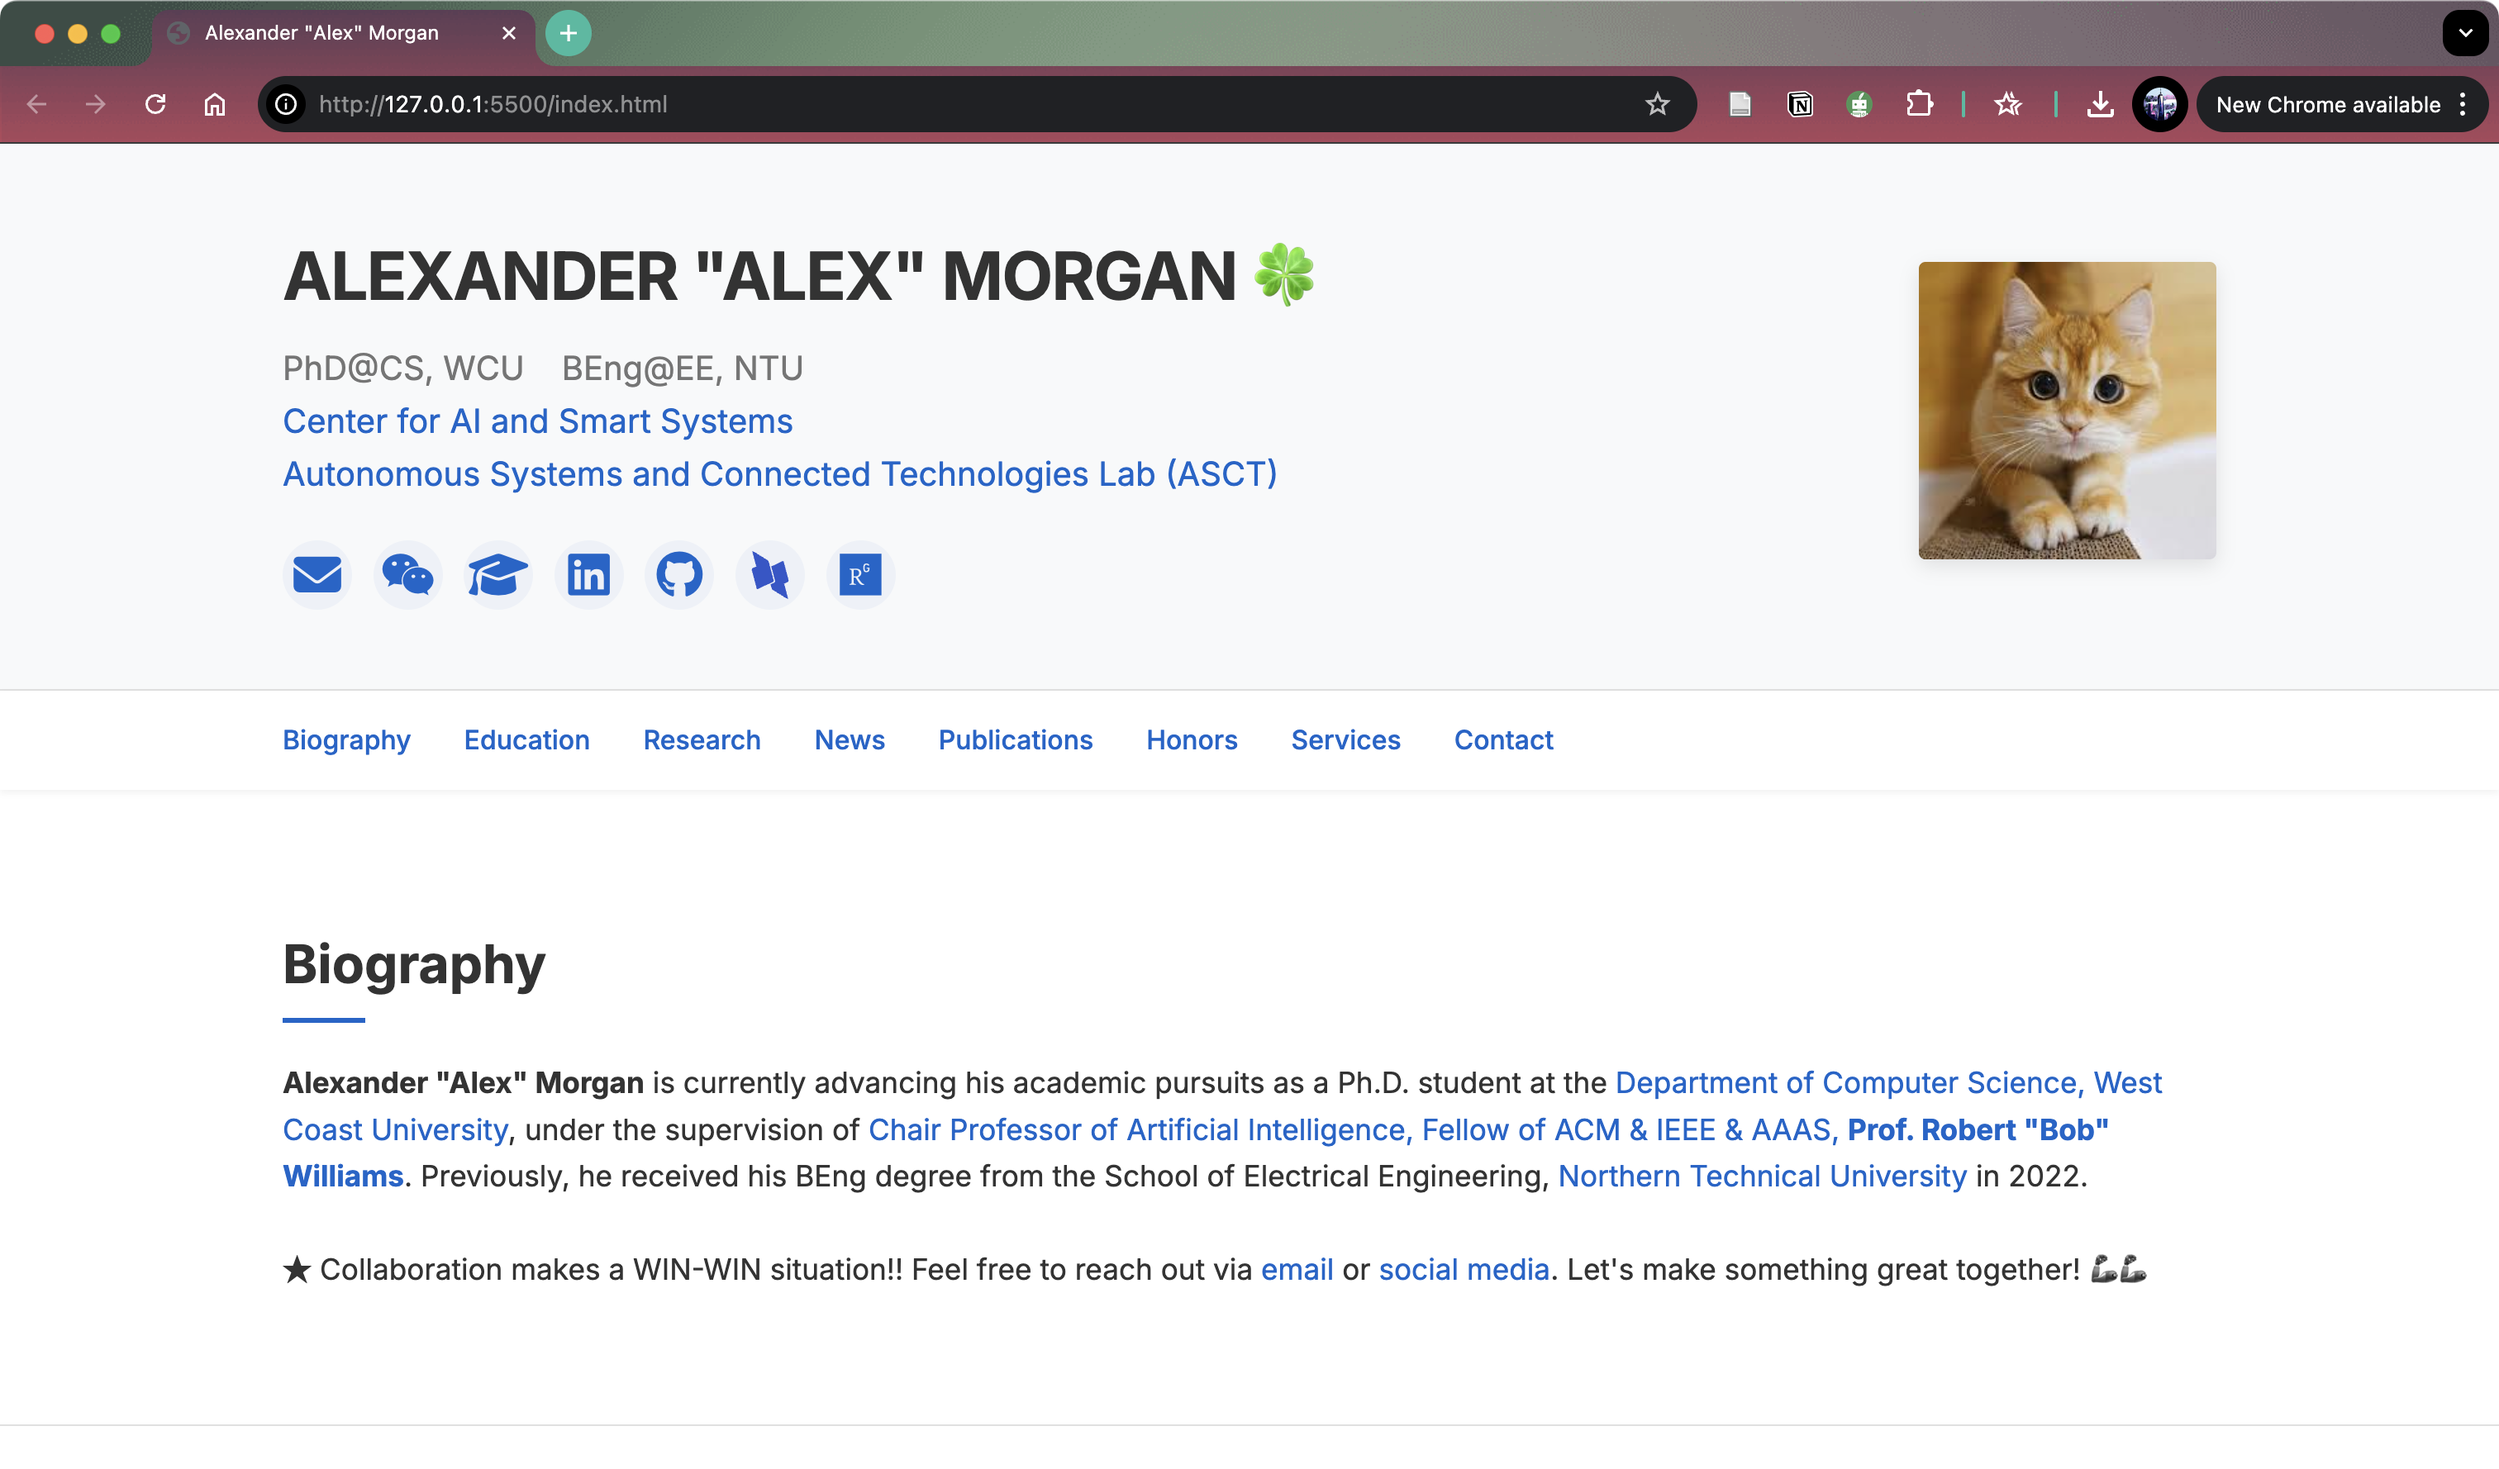
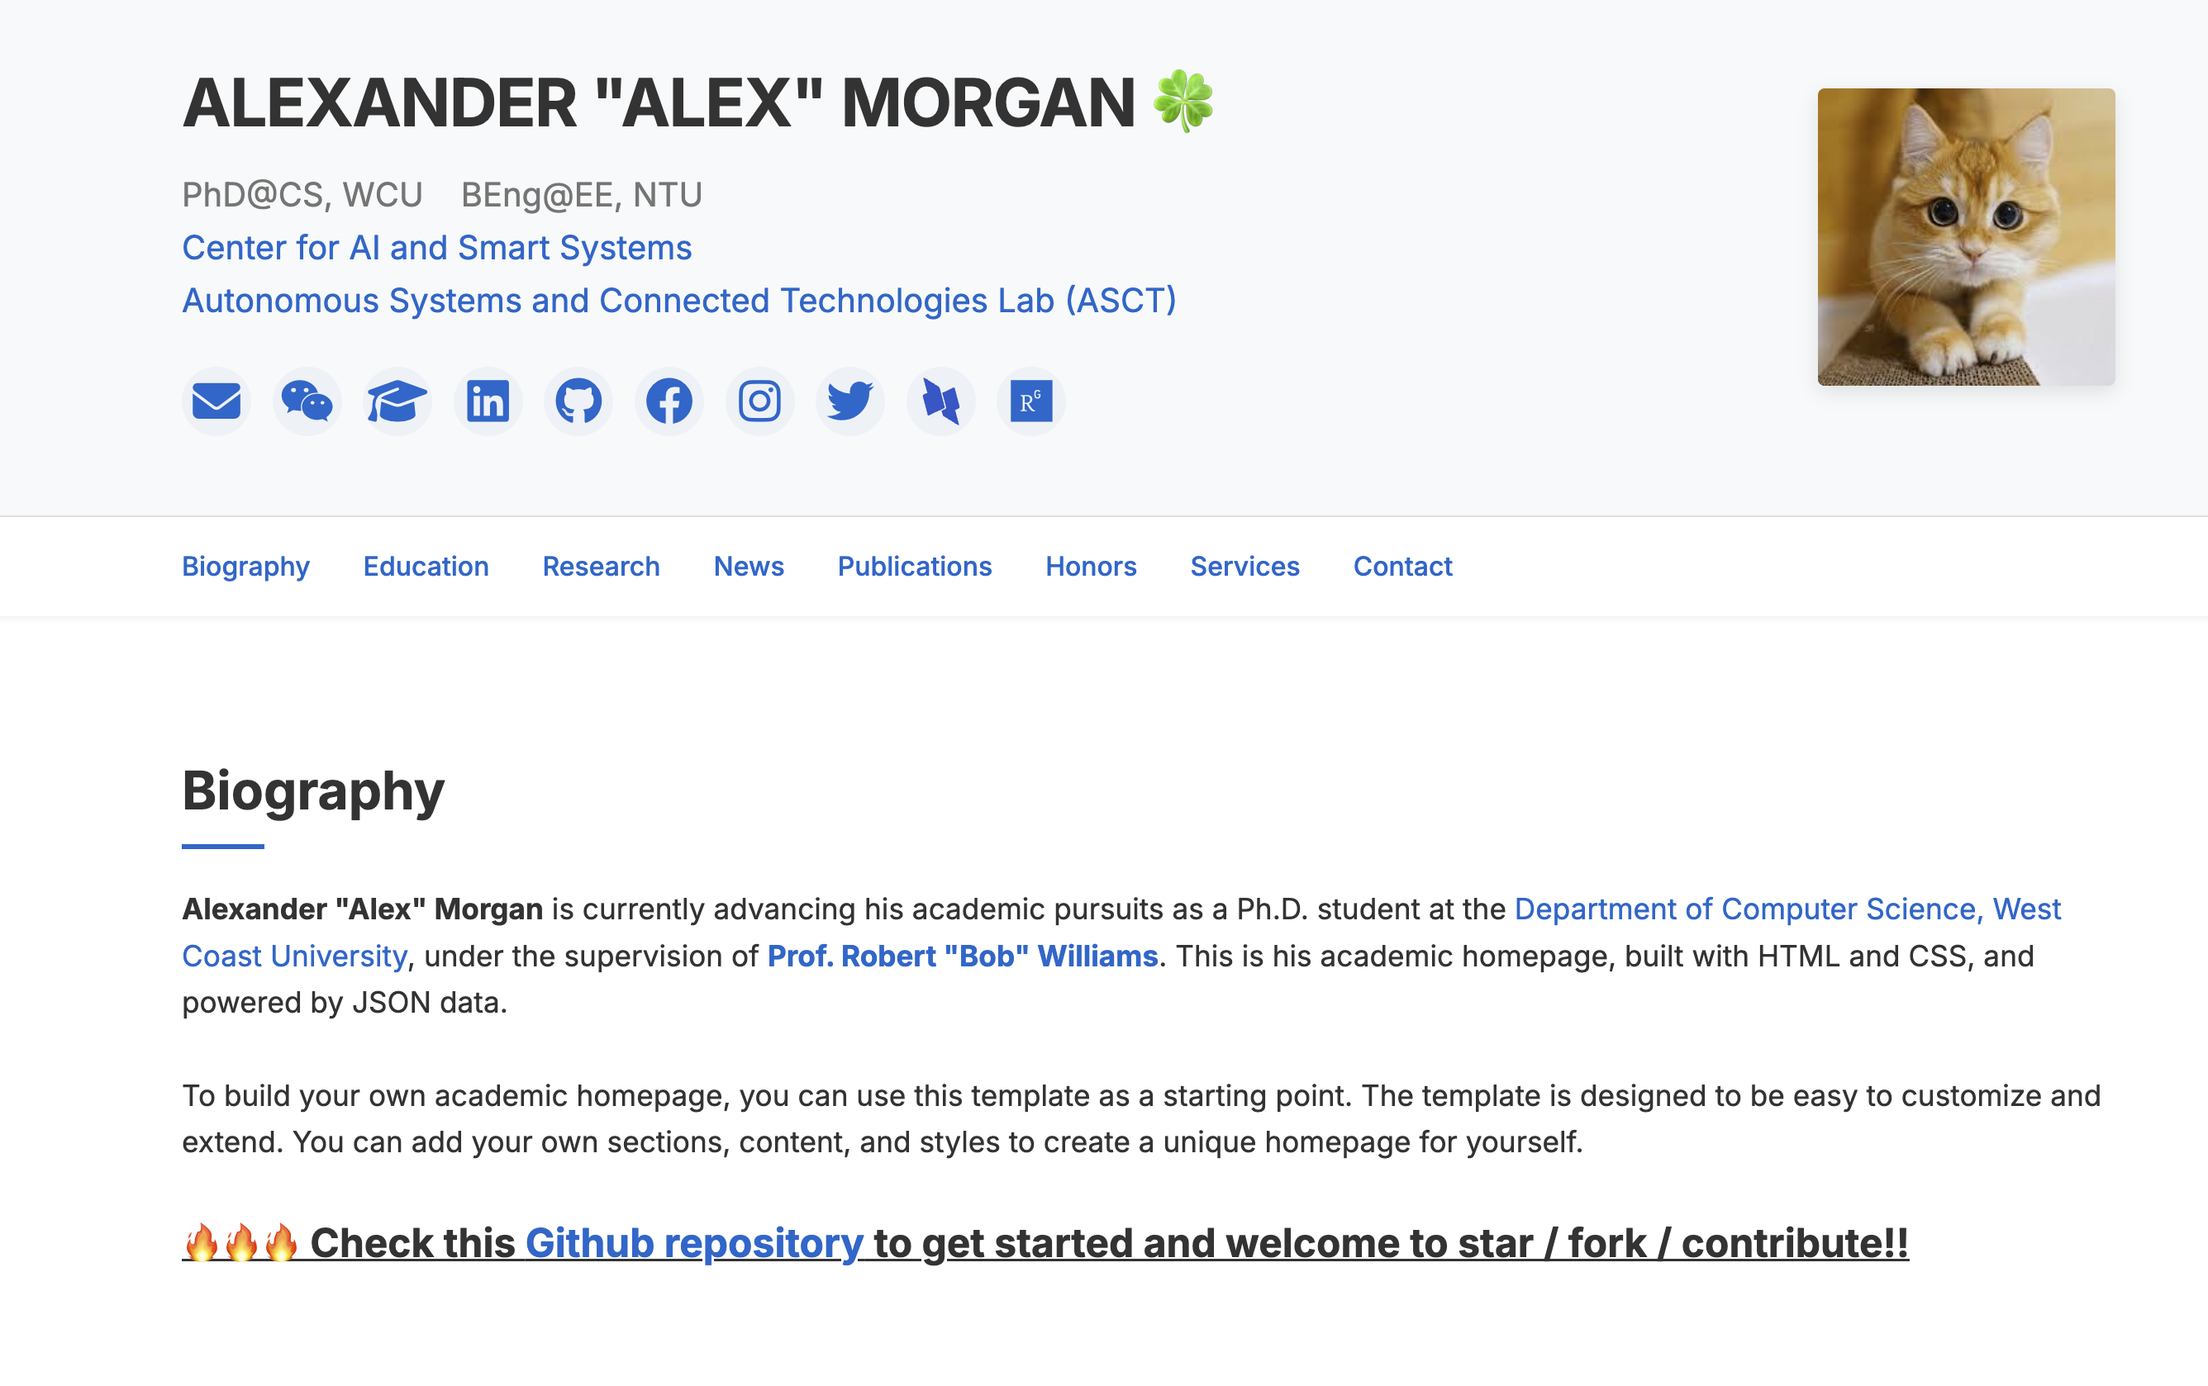
update

diff --git a/script.js b/script.js
@@ -2,6 +2,12 @@ document.addEventListener('DOMContentLoaded', function() {
     // Load profile information
     loadProfileInfo();
 
+    // Make all links open in a new tab
+    makeAllLinksOpenInNewTab();
+
+    // Set up MutationObserver to watch for dynamically added links
+    setupLinkObserver();
+
     // Publication filters - including "First Author" for publications where user is first author or has equal contribution
     const filterBtns = document.querySelectorAll('.filter-btn');
     const publications = document.querySelectorAll('.publication');
@@ -156,8 +162,11 @@ function loadProfileInfo() {
                     anchor.href = link.url;
                 }
                 
+                // Set target attribute - either from JSON or default to "_blank" for external links
                 if (link.target) {
                     anchor.target = link.target;
+                } else if (link.url && !link.url.startsWith('#')) {
+                    anchor.target = '_blank';
                 }
                 
                 // Fix SVG icon paths for subpages
@@ -246,6 +255,10 @@ function loadPublications() {
                         tagLink.href = tag.link;
                         tagLink.className = `tag ${tag.class}`;
                         tagLink.textContent = tag.text;
+                        // Add target="_blank" for links
+                        if (!tag.link.startsWith('#')) {
+                            tagLink.setAttribute('target', '_blank');
+                        }
                         tagsContainer.appendChild(tagLink);
                     } else {
                         const tagSpan = document.createElement('span');
@@ -322,6 +335,10 @@ function renderNewsItems(newsData, containerId) {
                 const linkElement = document.createElement('a');
                 linkElement.href = link.url;
                 linkElement.textContent = link.text;
+                // Add target="_blank" for external links
+                if (link.url && !link.url.startsWith('#')) {
+                    linkElement.setAttribute('target', '_blank');
+                }
                 paragraphElement.appendChild(linkElement);
             });
         }
@@ -334,6 +351,10 @@ function renderNewsItems(newsData, containerId) {
             const linkElement = document.createElement('a');
             linkElement.href = newsItem.link;
             linkElement.textContent = newsItem.linkText;
+            // Add target="_blank" for external links
+            if (newsItem.link && !newsItem.link.startsWith('#')) {
+                linkElement.setAttribute('target', '_blank');
+            }
             paragraphElement.appendChild(linkElement);
         }
         
@@ -346,4 +367,73 @@ function renderNewsItems(newsData, containerId) {
         // Add the news item to the container
         container.appendChild(newsElement);
     });
+}
+
+// Function to make all links open in a new tab
+function makeAllLinksOpenInNewTab() {
+    // Get all links in the document
+    const links = document.querySelectorAll('a');
+    
+    // Loop through each link
+    links.forEach(link => {
+        const href = link.getAttribute('href');
+        // Skip navigation links (links that start with #) and links without href
+        if (href && !href.startsWith('#')) {
+            // Set target to _blank to open in a new tab
+            link.setAttribute('target', '_blank');
+        }
+    });
+}
+
+// Function to set up a MutationObserver to watch for new links
+function setupLinkObserver() {
+    // Select the target node (in this case, the entire document body)
+    const targetNode = document.body;
+    
+    // Options for the observer (which mutations to observe)
+    const config = { 
+        childList: true, // observe direct children
+        subtree: true, // and lower descendants too
+        characterData: false, // don't care about text changes
+        attributes: false // don't care about attribute changes
+    };
+    
+    // Callback function to execute when mutations are observed
+    const callback = function(mutationsList, observer) {
+        // Check if any new nodes were added
+        let newLinksAdded = false;
+        
+        for (const mutation of mutationsList) {
+            if (mutation.type === 'childList' && mutation.addedNodes.length > 0) {
+                // Check if any of the added nodes are links or contain links
+                for (const node of mutation.addedNodes) {
+                    if (node.nodeType === 1) { // ELEMENT_NODE
+                        if (node.tagName === 'A') {
+                            newLinksAdded = true;
+                            break;
+                        } else if (node.querySelectorAll) {
+                            const links = node.querySelectorAll('a');
+                            if (links.length > 0) {
+                                newLinksAdded = true;
+                                break;
+                            }
+                        }
+                    }
+                }
+            }
+            
+            if (newLinksAdded) break;
+        }
+        
+        // If new links were added, update them to open in new tabs
+        if (newLinksAdded) {
+            makeAllLinksOpenInNewTab();
+        }
+    };
+    
+    // Create an observer instance linked to the callback function
+    const observer = new MutationObserver(callback);
+    
+    // Start observing the target node for configured mutations
+    observer.observe(targetNode, config);
 } 

diff --git a/index.html b/index.html
@@ -42,7 +42,12 @@
             <div class="container">
                 <h2 class="section-title">Biography</h2>
                 <div class="about-content">
-                    <p><b>Alexander "Alex" Morgan</b> is currently advancing his academic pursuits as a Ph.D. student at the <a href="#">Department of Computer Science, West Coast University</a>, under the supervision of <a href="#"> <b>Prof. Robert "Bob" Williams</b></a>. This is his academic homepage, built with HTML and CSS, and powered by JSON data. This is his academic homepage, built with HTML and CSS, and powered by JSON data. This is his academic homepage, built with HTML and CSS, and powered by JSON data. This is his academic homepage, built with HTML and CSS, and powered by JSON data.
+                    <p><b>Alexander "Alex" Morgan</b> is currently advancing his academic pursuits as a Ph.D. student at the <a href="#">Department of Computer Science, West Coast University</a>, under the supervision of <a href="#"> <b>Prof. Robert "Bob" Williams</b></a>. This is his academic homepage, built with HTML and CSS, and powered by JSON data. <br> <br>
+                    
+                    To build your own academic homepage, you can use this template as a starting point. The template is designed to be easy to customize and extend. You can add your own sections, content, and styles to create a unique homepage for yourself. <br><br>
+                    
+                    <u><b><span style="font-size: x-large;">🔥🔥🔥 Check this <a href="https://github.com/dl-m9/academic-homepage-modernism">Github repository</a> to get started and welcome to star / fork / contribute!!</span></b></u>
+                    
                 </div>
             </div>
         </section>
@@ -239,7 +244,7 @@
             </div>
             <br><br><br><br>
                 <div style="width: 15%; height: auto; margin: auto;">
-                    <script type="text/javascript" id="clstr_globe" src="//clustrmaps.com/globe.js?d=qLWVVAAvtN_5u37gNS4Dm-rflExCdP123yF9uf4KZnk"></script>
+                    <script type="text/javascript" id="clstr_globe" src="//clustrmaps.com/globe.js?d=Frxy0rfEZDtQqjGbJ_w8LEF-2KVersYTn0A3-GN6BRE"></script>
                 </div>
         </section>
     </main>
